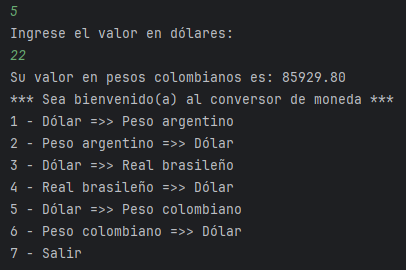
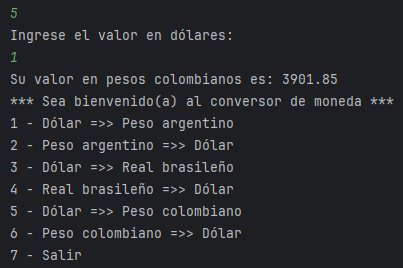
Upload 3
Se corrige origen de datos para que consuma API y se crea clase para su consumo

diff --git a/src/Main.java b/src/Main.java
@@ -1,13 +1,16 @@
+import java.io.IOException;
 import java.util.Scanner;
-public class Main {
-    public static void main(String[] args) {
 
+public class Main {
+    public static void main(String[] args) throws IOException, InterruptedException {
+
+        double dolarBras;
+        double dolarArg;
+        double dolarCol;
         int opcion = 0;
         double ValorConvertir = 0;
-        double dolarArg = 872.24;
-        double dolarBras = 5.15;
-        double dolarCol = 3905.9;
 
+        String moneda;
 
         String menu = """
                 \n*** Sea bienvenido(a) al conversor de moneda ***
@@ -26,36 +29,48 @@ public class Main {
             System.out.println(menu);
             opcion = teclado.nextInt();
 
-            switch (opcion){
+            switch (opcion) {
                 case 1:
+                    API monedaUSDARS = new API();
+                        dolarArg = monedaUSDARS.consumeApiARS();
                     System.out.println("Ingrese el valor en dólares: ");
                     ValorConvertir = teclado.nextDouble();
-                    System.out.printf("Su valor en pesos argentinos es: %.2f",(ValorConvertir * dolarArg));
+                    System.out.printf("Su valor en pesos argentinos es: %.2f", (ValorConvertir * dolarArg));
                     break;
                 case 2:
+                    API monedaARSUSD = new API();
+                        dolarArg = monedaARSUSD.consumeApiARS();
                     System.out.println("Ingrese el valor en pesos argentinos: ");
                     ValorConvertir = teclado.nextDouble();
-                    System.out.printf("Su valor en dólares es: %.2f",(ValorConvertir / dolarArg));
+                    System.out.printf("Su valor en dólares es: %.2f", (ValorConvertir / dolarArg));
                     break;
                 case 3:
+                    API monedaUSDBRL = new API();
+                        dolarBras = monedaUSDBRL.consumeApiBRL();
                     System.out.println("Ingrese el valor en dólares: ");
                     ValorConvertir = teclado.nextDouble();
-                    System.out.printf("Su valor en reales brasileños es: %.2f",(ValorConvertir * dolarBras));
+                    System.out.printf("Su valor en reales brasileños es: %.2f", ValorConvertir * dolarBras);
                     break;
                 case 4:
+                    API monedaBRLUSD = new API();
+                        dolarBras = monedaBRLUSD.consumeApiBRL();
                     System.out.println("Ingrese el valor en reales brasileños: ");
                     ValorConvertir = teclado.nextDouble();
-                    System.out.printf("Su valor en dólares es: %.2f",(ValorConvertir / dolarBras));
+                    System.out.printf("Su valor en dólares es: %.2f", (ValorConvertir / dolarBras));
                     break;
                 case 5:
+                    API monedaUSDCOP = new API();
+                        dolarCol = monedaUSDCOP.consumeApiCOP();
                     System.out.println("Ingrese el valor en dólares: ");
                     ValorConvertir = teclado.nextDouble();
-                    System.out.printf("Su valor en pesos colombianos es: %.2f",(ValorConvertir * dolarCol));
+                    System.out.printf("Su valor en pesos colombianos es: %.2f", (ValorConvertir * dolarCol));
                     break;
                 case 6:
+                    API monedaCOPUSD = new API();
+                        dolarCol = monedaCOPUSD.consumeApiCOP();
                     System.out.println("Ingrese el valor en pesos colombianos: ");
                     ValorConvertir = teclado.nextDouble();
-                    System.out.printf("Su valor en dólares es: %.2f",(ValorConvertir / dolarCol));
+                    System.out.printf("Su valor en dólares es: %.2f", (ValorConvertir / dolarCol));
                     break;
                 case 7:
                     System.out.println("Saliendo del conversor. Gracias por preferirnos");
@@ -66,5 +81,4 @@ public class Main {
             }
         }
     }
-
 }

diff --git a/src/API.java b/src/API.java
@@ -1,0 +1,58 @@
+import org.json.JSONArray;
+import org.json.JSONObject;
+
+import java.io.IOException;
+import java.math.BigDecimal;
+import java.net.URI;
+import java.net.http.HttpClient;
+import java.net.http.HttpRequest;
+import java.net.http.HttpResponse;
+
+public class API {
+
+    String direccion = "https://v6.exchangerate-api.com/v6/ee56f40ea33f0a5e4f66a9e0/latest/USD";
+    HttpClient client = HttpClient.newHttpClient();
+    HttpRequest request = HttpRequest.newBuilder()
+            .uri(URI.create(direccion))
+            .build();
+    HttpResponse<String> response = client.send(request, HttpResponse.BodyHandlers.ofString());
+    String json = response.body();
+
+    public API() throws IOException, InterruptedException {
+    }
+
+    public double consumeApiARS() throws IOException, InterruptedException {
+
+        JSONArray jsonArrayARS = new JSONArray("[" + json + "]");
+        JSONObject primerObjetoARS = jsonArrayARS.getJSONObject(0);
+        JSONObject segundoObjetoARS = primerObjetoARS.getJSONObject("conversion_rates");
+        BigDecimal dolarARS = segundoObjetoARS.getBigDecimal("ARS");
+
+        double divisaArsDouble = dolarARS.doubleValue();
+            return divisaArsDouble;
+    }
+
+    public double consumeApiBRL(){
+        JSONArray jsonArrayBRL = new JSONArray("[" + json + "]");
+        //System.out.println(jsonArray);
+        JSONObject primerObjetoBRL = jsonArrayBRL.getJSONObject(0);
+        JSONObject segundoObjetoBRL = primerObjetoBRL.getJSONObject("conversion_rates");
+        BigDecimal dolarBras = segundoObjetoBRL.getBigDecimal("BRL");
+
+        double divisaBrlDouble = dolarBras.doubleValue();
+            return divisaBrlDouble;
+    }
+
+    public double consumeApiCOP() {
+        JSONArray jsonArrayCOP = new JSONArray("[" + json + "]");
+        //System.out.println(jsonArray);
+        JSONObject primerObjetoCOP = jsonArrayCOP.getJSONObject(0);
+        JSONObject segundoObjetoCOP = primerObjetoCOP.getJSONObject("conversion_rates");
+        BigDecimal dolarCol = segundoObjetoCOP.getBigDecimal("COP");
+
+        double divisaCopDouble = dolarCol.doubleValue();
+            return divisaCopDouble;
+    }
+}
+
+

diff --git a/src/ExchangeAPI.java b/src/ExchangeAPI.java
@@ -1,0 +1,3 @@
+public record ExchangeAPI(String code, String value) {
+
+}

diff --git a/src/Convertir.java b/src/Convertir.java
@@ -1,0 +1,3 @@
+public class Convertir {
+
+}
